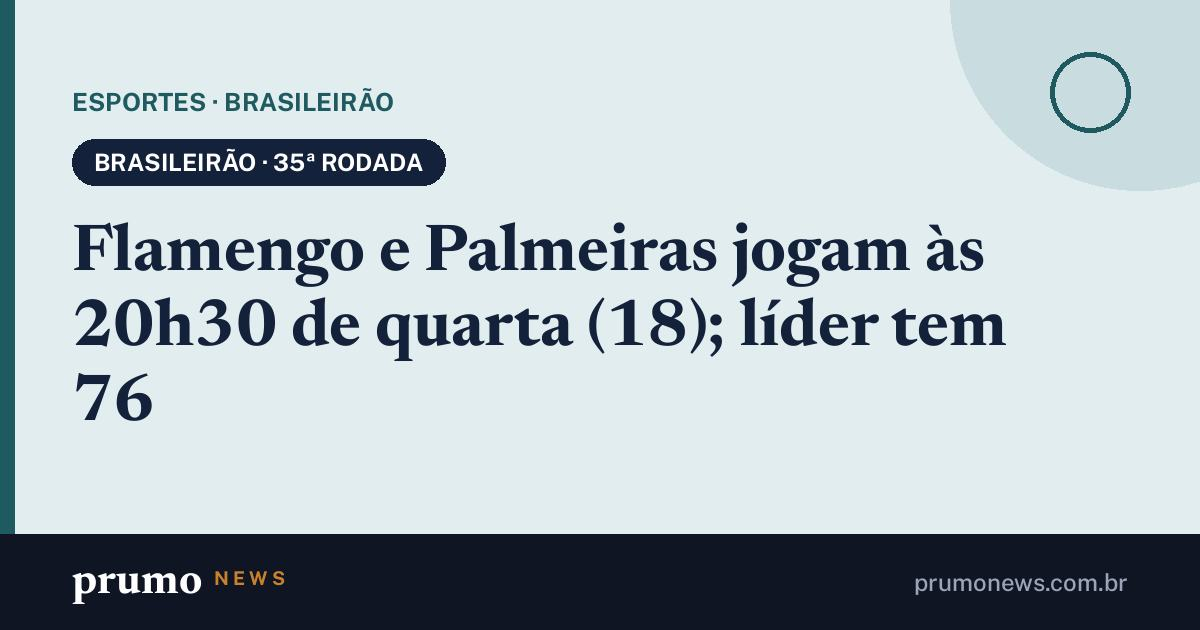
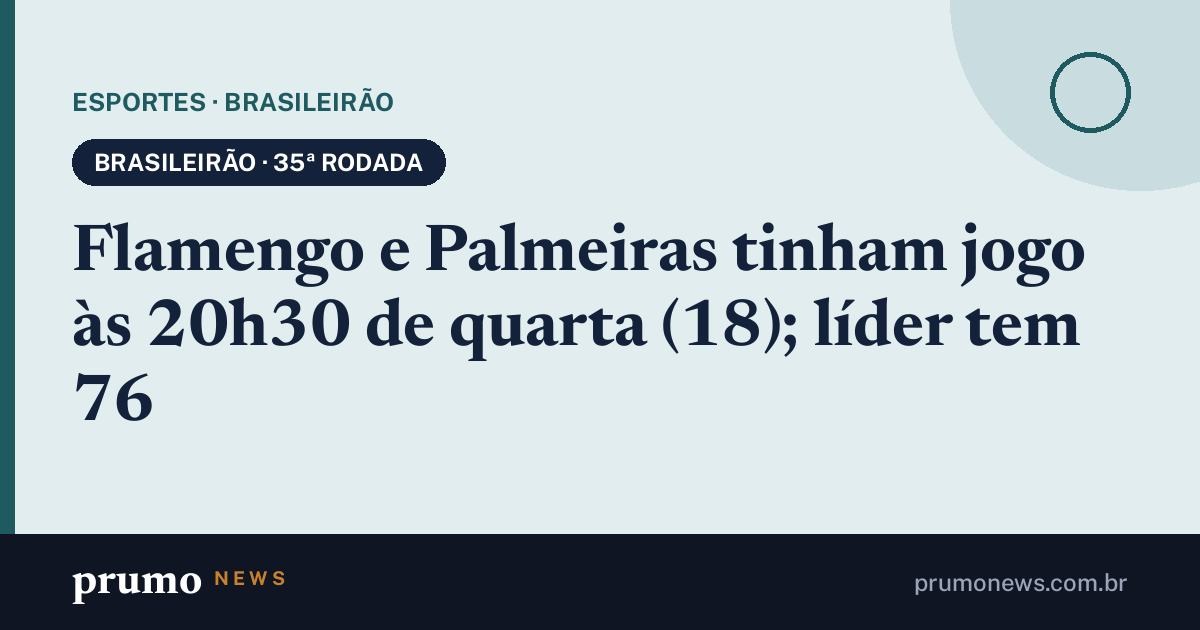
Páginas de compartilhamento 18/11 21h51

Changed region(s): [[0.0617, 0.3317, 0.925, 0.573]]

diff --git a/m/caso-master.html b/m/caso-master.html
@@ -3,20 +3,22 @@
 <head>
 <meta charset="utf-8">
 <meta name="viewport" content="width=device-width, initial-scale=1">
-<title>Chefe da PF e ministro da Justiça vão ao Senado explicar delegados do Master · Prumo News</title>
-<meta name="description" content="Andrei Rodrigues e o ministro da Justiça foram chamados ao Senado na quarta (18) para explicar o afastamento de dois delegados; a PGR prepara as primeiras denúncias.">
-<link rel="canonical" href="https://prumonews.com.br/m/chefe-da-pf-e-ministro-da-justica-vao-ao-senado-explicar-delegados-do.html">
+<title>Andrei cita quebra de confiança ao afastar delegados do caso Master · Prumo News</title>
+<meta name="description" content="O chefe da PF não disse quais ministros aparecem em relatórios; a PGR prepara as primeiras denúncias e a PF apura R$ 350 mil de Vorcaro a Ciro Nogueira.">
+<link rel="canonical" href="https://prumonews.com.br/m/andrei-cita-quebra-de-confianca-ao-afastar-delegados-do-caso-master.html">
 <meta property="og:type" content="article">
 <meta property="og:site_name" content="Prumo News">
 <meta property="og:locale" content="pt_BR">
-<meta property="og:title" content="Chefe da PF e ministro da Justiça vão ao Senado explicar delegados do Master">
-<meta property="og:description" content="Andrei Rodrigues e o ministro da Justiça foram chamados ao Senado na quarta (18) para explicar o afastamento de dois delegados; a PGR prepara as primeiras denúncias.">
-<meta property="og:url" content="https://prumonews.com.br/m/chefe-da-pf-e-ministro-da-justica-vao-ao-senado-explicar-delegados-do.html">
-<meta property="og:image" content="https://upload.wikimedia.org/wikipedia/commons/thumb/3/35/Plen%C3%A1rio_do_Senado_%2854732242414%29.jpg/960px-Plen%C3%A1rio_do_Senado_%2854732242414%29.jpg">
+<meta property="og:title" content="Andrei cita quebra de confiança ao afastar delegados do caso Master">
+<meta property="og:description" content="O chefe da PF não disse quais ministros aparecem em relatórios; a PGR prepara as primeiras denúncias e a PF apura R$ 350 mil de Vorcaro a Ciro Nogueira.">
+<meta property="og:url" content="https://prumonews.com.br/m/andrei-cita-quebra-de-confianca-ao-afastar-delegados-do-caso-master.html">
+<meta property="og:image" content="https://prumonews.com.br/m/og/caso-master.jpg?v=92efa6f652">
+<meta property="og:image:width" content="1200">
+<meta property="og:image:height" content="630">
 <meta name="twitter:card" content="summary_large_image">
 <meta name="theme-color" content="#0f1522">
 <script>location.replace("/#m=caso-master")</script>
 <style>body{margin:0;font:16px/1.5 system-ui,sans-serif;background:#0f1522;color:#e8ecf2;display:grid;place-items:center;min-height:100vh;padding:24px;box-sizing:border-box;text-align:center}a{color:#e6b673}</style>
 </head>
-<body><p><a href="/#m=caso-master">Chefe da PF e ministro da Justiça vão ao Senado explicar delegados do Master</a><br>Abrindo no Prumo News…</p></body>
+<body><p><a href="/#m=caso-master">Andrei cita quebra de confiança ao afastar delegados do caso Master</a><br>Abrindo no Prumo News…</p></body>
 </html>

diff --git a/m/enem-2026-reta-final-app-idioma.html b/m/enem-2026-reta-final-app-idioma.html
@@ -3,16 +3,16 @@
 <head>
 <meta charset="utf-8">
 <meta name="viewport" content="width=device-width, initial-scale=1">
-<title>Gabarito do Enem sai quarta (18); professores questionam mais 2 questões · Prumo News</title>
-<meta name="description" content="O Inep antecipou o gabarito oficial para quarta (18); professores apontam mais duas questões de matemática, e as notas saem em 18/01/2027.">
-<link rel="canonical" href="https://prumonews.com.br/m/gabarito-do-enem-sai-quarta-18-professores-questionam-mais-2-questoes.html">
+<title>Inep divulga o gabarito do Enem; cursinhos discordam de uma questão · Prumo News</title>
+<meta name="description" content="O gabarito oficial saiu na quarta (18); a questão 159 de matemática segue contestada, os pedidos de reaplicação vão até 20/11 e as notas saem em 18/01/2027.">
+<link rel="canonical" href="https://prumonews.com.br/m/inep-divulga-o-gabarito-do-enem-cursinhos-discordam-de-uma-questao.html">
 <meta property="og:type" content="article">
 <meta property="og:site_name" content="Prumo News">
 <meta property="og:locale" content="pt_BR">
-<meta property="og:title" content="Gabarito do Enem sai quarta (18); professores questionam mais 2 questões">
-<meta property="og:description" content="O Inep antecipou o gabarito oficial para quarta (18); professores apontam mais duas questões de matemática, e as notas saem em 18/01/2027.">
-<meta property="og:url" content="https://prumonews.com.br/m/gabarito-do-enem-sai-quarta-18-professores-questionam-mais-2-questoes.html">
-<meta property="og:image" content="https://prumonews.com.br/m/og/enem-2026-reta-final-app-idioma.jpg?v=9adca90a80">
+<meta property="og:title" content="Inep divulga o gabarito do Enem; cursinhos discordam de uma questão">
+<meta property="og:description" content="O gabarito oficial saiu na quarta (18); a questão 159 de matemática segue contestada, os pedidos de reaplicação vão até 20/11 e as notas saem em 18/01/2027.">
+<meta property="og:url" content="https://prumonews.com.br/m/inep-divulga-o-gabarito-do-enem-cursinhos-discordam-de-uma-questao.html">
+<meta property="og:image" content="https://prumonews.com.br/m/og/enem-2026-reta-final-app-idioma.jpg?v=7eefcb099b">
 <meta property="og:image:width" content="1200">
 <meta property="og:image:height" content="630">
 <meta name="twitter:card" content="summary_large_image">
@@ -20,5 +20,5 @@
 <script>location.replace("/#m=enem-2026-reta-final-app-idioma")</script>
 <style>body{margin:0;font:16px/1.5 system-ui,sans-serif;background:#0f1522;color:#e8ecf2;display:grid;place-items:center;min-height:100vh;padding:24px;box-sizing:border-box;text-align:center}a{color:#e6b673}</style>
 </head>
-<body><p><a href="/#m=enem-2026-reta-final-app-idioma">Gabarito do Enem sai quarta (18); professores questionam mais 2 questões</a><br>Abrindo no Prumo News…</p></body>
+<body><p><a href="/#m=enem-2026-reta-final-app-idioma">Inep divulga o gabarito do Enem; cursinhos discordam de uma questão</a><br>Abrindo no Prumo News…</p></body>
 </html>

diff --git a/m/ajuste-fiscal-lula-4.html b/m/ajuste-fiscal-lula-4.html
@@ -3,20 +3,20 @@
 <head>
 <meta charset="utf-8">
 <meta name="viewport" content="width=device-width, initial-scale=1">
-<title>Sem acordo, Senado deixa os 5 destaques do ajuste para quarta (18) · Prumo News</title>
-<meta name="description" content="O relator estima R$ 45,1 bi a R$ 56,1 bi em 2027 com o texto intacto; o governo retirou a urgência do PL das bets para destravar a pauta da Câmara.">
-<link rel="canonical" href="https://prumonews.com.br/m/sem-acordo-senado-deixa-os-5-destaques-do-ajuste-para-quarta-18.html">
+<title>Senado registra aprovação do ajuste fiscal por 45 a 32 e 49 a 31 · Prumo News</title>
+<meta name="description" content="O relator estima R$ 45,1 bi a R$ 56,1 bi em 2027; o texto segue para a Câmara, que precisa de 257 votos, e Hugo Motta só volta depois de sexta (20).">
+<link rel="canonical" href="https://prumonews.com.br/m/senado-registra-aprovacao-do-ajuste-fiscal-por-45-a-32-e-49-a-31.html">
 <meta property="og:type" content="article">
 <meta property="og:site_name" content="Prumo News">
 <meta property="og:locale" content="pt_BR">
-<meta property="og:title" content="Sem acordo, Senado deixa os 5 destaques do ajuste para quarta (18)">
-<meta property="og:description" content="O relator estima R$ 45,1 bi a R$ 56,1 bi em 2027 com o texto intacto; o governo retirou a urgência do PL das bets para destravar a pauta da Câmara.">
-<meta property="og:url" content="https://prumonews.com.br/m/sem-acordo-senado-deixa-os-5-destaques-do-ajuste-para-quarta-18.html">
+<meta property="og:title" content="Senado registra aprovação do ajuste fiscal por 45 a 32 e 49 a 31">
+<meta property="og:description" content="O relator estima R$ 45,1 bi a R$ 56,1 bi em 2027; o texto segue para a Câmara, que precisa de 257 votos, e Hugo Motta só volta depois de sexta (20).">
+<meta property="og:url" content="https://prumonews.com.br/m/senado-registra-aprovacao-do-ajuste-fiscal-por-45-a-32-e-49-a-31.html">
 <meta property="og:image" content="https://upload.wikimedia.org/wikipedia/commons/thumb/1/12/Plen%C3%A1rio_do_Senado_%2854300785080%29.jpg/960px-Plen%C3%A1rio_do_Senado_%2854300785080%29.jpg">
 <meta name="twitter:card" content="summary_large_image">
 <meta name="theme-color" content="#0f1522">
 <script>location.replace("/#m=ajuste-fiscal-lula-4")</script>
 <style>body{margin:0;font:16px/1.5 system-ui,sans-serif;background:#0f1522;color:#e8ecf2;display:grid;place-items:center;min-height:100vh;padding:24px;box-sizing:border-box;text-align:center}a{color:#e6b673}</style>
 </head>
-<body><p><a href="/#m=ajuste-fiscal-lula-4">Sem acordo, Senado deixa os 5 destaques do ajuste para quarta (18)</a><br>Abrindo no Prumo News…</p></body>
+<body><p><a href="/#m=ajuste-fiscal-lula-4">Senado registra aprovação do ajuste fiscal por 45 a 32 e 49 a 31</a><br>Abrindo no Prumo News…</p></body>
 </html>

diff --git a/m/brasileirao-31-rodada-lideres.html b/m/brasileirao-31-rodada-lideres.html
@@ -3,16 +3,16 @@
 <head>
 <meta charset="utf-8">
 <meta name="viewport" content="width=device-width, initial-scale=1">
-<title>Flamengo e Palmeiras jogam às 20h30 de quarta (18); líder tem 76 · Prumo News</title>
+<title>Flamengo e Palmeiras tinham jogo às 20h30 de quarta (18); líder tem 76 · Prumo News</title>
 <meta name="description" content="Flamengo (76) e Palmeiras (73) jogam às 20h30 de quarta (18); no sábado (21), o clássico entre os dois é apitado por Rodrigo Pereira.">
-<link rel="canonical" href="https://prumonews.com.br/m/flamengo-e-palmeiras-jogam-as-20h30-de-quarta-18-lider-tem-76.html">
+<link rel="canonical" href="https://prumonews.com.br/m/flamengo-e-palmeiras-tinham-jogo-as-20h30-de-quarta-18-lider-tem-76.html">
 <meta property="og:type" content="article">
 <meta property="og:site_name" content="Prumo News">
 <meta property="og:locale" content="pt_BR">
-<meta property="og:title" content="Flamengo e Palmeiras jogam às 20h30 de quarta (18); líder tem 76">
+<meta property="og:title" content="Flamengo e Palmeiras tinham jogo às 20h30 de quarta (18); líder tem 76">
 <meta property="og:description" content="Flamengo (76) e Palmeiras (73) jogam às 20h30 de quarta (18); no sábado (21), o clássico entre os dois é apitado por Rodrigo Pereira.">
-<meta property="og:url" content="https://prumonews.com.br/m/flamengo-e-palmeiras-jogam-as-20h30-de-quarta-18-lider-tem-76.html">
-<meta property="og:image" content="https://prumonews.com.br/m/og/brasileirao-31-rodada-lideres.jpg?v=99d1725931">
+<meta property="og:url" content="https://prumonews.com.br/m/flamengo-e-palmeiras-tinham-jogo-as-20h30-de-quarta-18-lider-tem-76.html">
+<meta property="og:image" content="https://prumonews.com.br/m/og/brasileirao-31-rodada-lideres.jpg?v=00bfbccc92">
 <meta property="og:image:width" content="1200">
 <meta property="og:image:height" content="630">
 <meta name="twitter:card" content="summary_large_image">
@@ -20,5 +20,5 @@
 <script>location.replace("/#m=brasileirao-31-rodada-lideres")</script>
 <style>body{margin:0;font:16px/1.5 system-ui,sans-serif;background:#0f1522;color:#e8ecf2;display:grid;place-items:center;min-height:100vh;padding:24px;box-sizing:border-box;text-align:center}a{color:#e6b673}</style>
 </head>
-<body><p><a href="/#m=brasileirao-31-rodada-lideres">Flamengo e Palmeiras jogam às 20h30 de quarta (18); líder tem 76</a><br>Abrindo no Prumo News…</p></body>
+<body><p><a href="/#m=brasileirao-31-rodada-lideres">Flamengo e Palmeiras tinham jogo às 20h30 de quarta (18); líder tem 76</a><br>Abrindo no Prumo News…</p></body>
 </html>

diff --git a/m/inep-divulga-o-gabarito-do-enem-cursinhos-discordam-de-uma-questao.html b/m/inep-divulga-o-gabarito-do-enem-cursinhos-discordam-de-uma-questao.html
@@ -1,0 +1,24 @@
+<!doctype html>
+<html lang="pt-BR">
+<head>
+<meta charset="utf-8">
+<meta name="viewport" content="width=device-width, initial-scale=1">
+<title>Inep divulga o gabarito do Enem; cursinhos discordam de uma questão · Prumo News</title>
+<meta name="description" content="O gabarito oficial saiu na quarta (18); a questão 159 de matemática segue contestada, os pedidos de reaplicação vão até 20/11 e as notas saem em 18/01/2027.">
+<link rel="canonical" href="https://prumonews.com.br/m/inep-divulga-o-gabarito-do-enem-cursinhos-discordam-de-uma-questao.html">
+<meta property="og:type" content="article">
+<meta property="og:site_name" content="Prumo News">
+<meta property="og:locale" content="pt_BR">
+<meta property="og:title" content="Inep divulga o gabarito do Enem; cursinhos discordam de uma questão">
+<meta property="og:description" content="O gabarito oficial saiu na quarta (18); a questão 159 de matemática segue contestada, os pedidos de reaplicação vão até 20/11 e as notas saem em 18/01/2027.">
+<meta property="og:url" content="https://prumonews.com.br/m/inep-divulga-o-gabarito-do-enem-cursinhos-discordam-de-uma-questao.html">
+<meta property="og:image" content="https://prumonews.com.br/m/og/enem-2026-reta-final-app-idioma.jpg?v=7eefcb099b">
+<meta property="og:image:width" content="1200">
+<meta property="og:image:height" content="630">
+<meta name="twitter:card" content="summary_large_image">
+<meta name="theme-color" content="#0f1522">
+<script>location.replace("/#m=enem-2026-reta-final-app-idioma")</script>
+<style>body{margin:0;font:16px/1.5 system-ui,sans-serif;background:#0f1522;color:#e8ecf2;display:grid;place-items:center;min-height:100vh;padding:24px;box-sizing:border-box;text-align:center}a{color:#e6b673}</style>
+</head>
+<body><p><a href="/#m=enem-2026-reta-final-app-idioma">Inep divulga o gabarito do Enem; cursinhos discordam de uma questão</a><br>Abrindo no Prumo News…</p></body>
+</html>

diff --git a/m/flamengo-e-palmeiras-tinham-jogo-as-20h30-de-quarta-18-lider-tem-76.html b/m/flamengo-e-palmeiras-tinham-jogo-as-20h30-de-quarta-18-lider-tem-76.html
@@ -1,0 +1,24 @@
+<!doctype html>
+<html lang="pt-BR">
+<head>
+<meta charset="utf-8">
+<meta name="viewport" content="width=device-width, initial-scale=1">
+<title>Flamengo e Palmeiras tinham jogo às 20h30 de quarta (18); líder tem 76 · Prumo News</title>
+<meta name="description" content="Flamengo (76) e Palmeiras (73) jogam às 20h30 de quarta (18); no sábado (21), o clássico entre os dois é apitado por Rodrigo Pereira.">
+<link rel="canonical" href="https://prumonews.com.br/m/flamengo-e-palmeiras-tinham-jogo-as-20h30-de-quarta-18-lider-tem-76.html">
+<meta property="og:type" content="article">
+<meta property="og:site_name" content="Prumo News">
+<meta property="og:locale" content="pt_BR">
+<meta property="og:title" content="Flamengo e Palmeiras tinham jogo às 20h30 de quarta (18); líder tem 76">
+<meta property="og:description" content="Flamengo (76) e Palmeiras (73) jogam às 20h30 de quarta (18); no sábado (21), o clássico entre os dois é apitado por Rodrigo Pereira.">
+<meta property="og:url" content="https://prumonews.com.br/m/flamengo-e-palmeiras-tinham-jogo-as-20h30-de-quarta-18-lider-tem-76.html">
+<meta property="og:image" content="https://prumonews.com.br/m/og/brasileirao-31-rodada-lideres.jpg?v=00bfbccc92">
+<meta property="og:image:width" content="1200">
+<meta property="og:image:height" content="630">
+<meta name="twitter:card" content="summary_large_image">
+<meta name="theme-color" content="#0f1522">
+<script>location.replace("/#m=brasileirao-31-rodada-lideres")</script>
+<style>body{margin:0;font:16px/1.5 system-ui,sans-serif;background:#0f1522;color:#e8ecf2;display:grid;place-items:center;min-height:100vh;padding:24px;box-sizing:border-box;text-align:center}a{color:#e6b673}</style>
+</head>
+<body><p><a href="/#m=brasileirao-31-rodada-lideres">Flamengo e Palmeiras tinham jogo às 20h30 de quarta (18); líder tem 76</a><br>Abrindo no Prumo News…</p></body>
+</html>

diff --git a/m/andrei-cita-quebra-de-confianca-ao-afastar-delegados-do-caso-master.html b/m/andrei-cita-quebra-de-confianca-ao-afastar-delegados-do-caso-master.html
@@ -1,0 +1,24 @@
+<!doctype html>
+<html lang="pt-BR">
+<head>
+<meta charset="utf-8">
+<meta name="viewport" content="width=device-width, initial-scale=1">
+<title>Andrei cita quebra de confiança ao afastar delegados do caso Master · Prumo News</title>
+<meta name="description" content="O chefe da PF não disse quais ministros aparecem em relatórios; a PGR prepara as primeiras denúncias e a PF apura R$ 350 mil de Vorcaro a Ciro Nogueira.">
+<link rel="canonical" href="https://prumonews.com.br/m/andrei-cita-quebra-de-confianca-ao-afastar-delegados-do-caso-master.html">
+<meta property="og:type" content="article">
+<meta property="og:site_name" content="Prumo News">
+<meta property="og:locale" content="pt_BR">
+<meta property="og:title" content="Andrei cita quebra de confiança ao afastar delegados do caso Master">
+<meta property="og:description" content="O chefe da PF não disse quais ministros aparecem em relatórios; a PGR prepara as primeiras denúncias e a PF apura R$ 350 mil de Vorcaro a Ciro Nogueira.">
+<meta property="og:url" content="https://prumonews.com.br/m/andrei-cita-quebra-de-confianca-ao-afastar-delegados-do-caso-master.html">
+<meta property="og:image" content="https://prumonews.com.br/m/og/caso-master.jpg?v=92efa6f652">
+<meta property="og:image:width" content="1200">
+<meta property="og:image:height" content="630">
+<meta name="twitter:card" content="summary_large_image">
+<meta name="theme-color" content="#0f1522">
+<script>location.replace("/#m=caso-master")</script>
+<style>body{margin:0;font:16px/1.5 system-ui,sans-serif;background:#0f1522;color:#e8ecf2;display:grid;place-items:center;min-height:100vh;padding:24px;box-sizing:border-box;text-align:center}a{color:#e6b673}</style>
+</head>
+<body><p><a href="/#m=caso-master">Andrei cita quebra de confiança ao afastar delegados do caso Master</a><br>Abrindo no Prumo News…</p></body>
+</html>

diff --git a/m/senado-registra-aprovacao-do-ajuste-fiscal-por-45-a-32-e-49-a-31.html b/m/senado-registra-aprovacao-do-ajuste-fiscal-por-45-a-32-e-49-a-31.html
@@ -1,0 +1,22 @@
+<!doctype html>
+<html lang="pt-BR">
+<head>
+<meta charset="utf-8">
+<meta name="viewport" content="width=device-width, initial-scale=1">
+<title>Senado registra aprovação do ajuste fiscal por 45 a 32 e 49 a 31 · Prumo News</title>
+<meta name="description" content="O relator estima R$ 45,1 bi a R$ 56,1 bi em 2027; o texto segue para a Câmara, que precisa de 257 votos, e Hugo Motta só volta depois de sexta (20).">
+<link rel="canonical" href="https://prumonews.com.br/m/senado-registra-aprovacao-do-ajuste-fiscal-por-45-a-32-e-49-a-31.html">
+<meta property="og:type" content="article">
+<meta property="og:site_name" content="Prumo News">
+<meta property="og:locale" content="pt_BR">
+<meta property="og:title" content="Senado registra aprovação do ajuste fiscal por 45 a 32 e 49 a 31">
+<meta property="og:description" content="O relator estima R$ 45,1 bi a R$ 56,1 bi em 2027; o texto segue para a Câmara, que precisa de 257 votos, e Hugo Motta só volta depois de sexta (20).">
+<meta property="og:url" content="https://prumonews.com.br/m/senado-registra-aprovacao-do-ajuste-fiscal-por-45-a-32-e-49-a-31.html">
+<meta property="og:image" content="https://upload.wikimedia.org/wikipedia/commons/thumb/1/12/Plen%C3%A1rio_do_Senado_%2854300785080%29.jpg/960px-Plen%C3%A1rio_do_Senado_%2854300785080%29.jpg">
+<meta name="twitter:card" content="summary_large_image">
+<meta name="theme-color" content="#0f1522">
+<script>location.replace("/#m=ajuste-fiscal-lula-4")</script>
+<style>body{margin:0;font:16px/1.5 system-ui,sans-serif;background:#0f1522;color:#e8ecf2;display:grid;place-items:center;min-height:100vh;padding:24px;box-sizing:border-box;text-align:center}a{color:#e6b673}</style>
+</head>
+<body><p><a href="/#m=ajuste-fiscal-lula-4">Senado registra aprovação do ajuste fiscal por 45 a 32 e 49 a 31</a><br>Abrindo no Prumo News…</p></body>
+</html>
